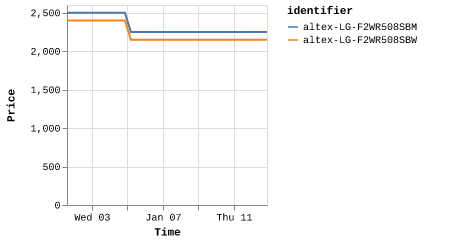
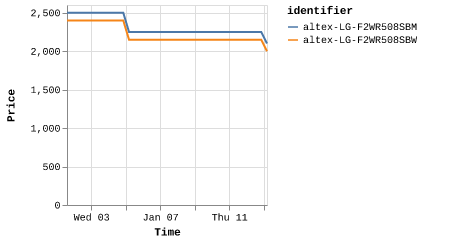
Latest scraping spalat: Sat Jan 13 04:38:46 UTC 2024

diff --git a/scrapes/spalat/altex-LG-F2WR508SBM.md b/scrapes/spalat/altex-LG-F2WR508SBM.md
@@ -1,3 +1,3 @@
-2249
+2099
 
 [Source](https://altex.ro/masina-de-spalat-rufe-frontala-slim-lg-f2wr508sbm-steam-8-kg-1200rpm-clasa-a-negru/cpd/MSFF2WR508SBM/)

diff --git a/scrapes/spalat/altex-LG-F2WR508SBW.md b/scrapes/spalat/altex-LG-F2WR508SBW.md
@@ -1,3 +1,3 @@
-2149
+1999
 
 [Source](https://altex.ro/masina-de-spalat-rufe-frontala-slim-lg-f2wr508sbw-steam-8-kg-1200rpm-clasa-a-alb/cpd/MSFF2WR508SBW/)
